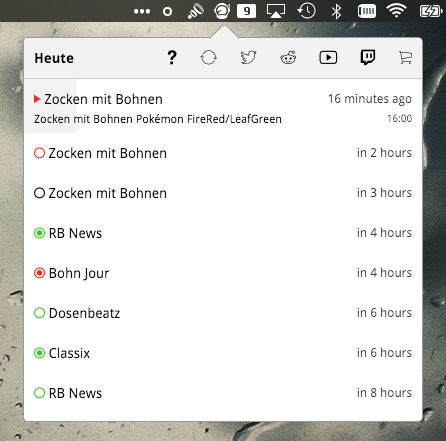
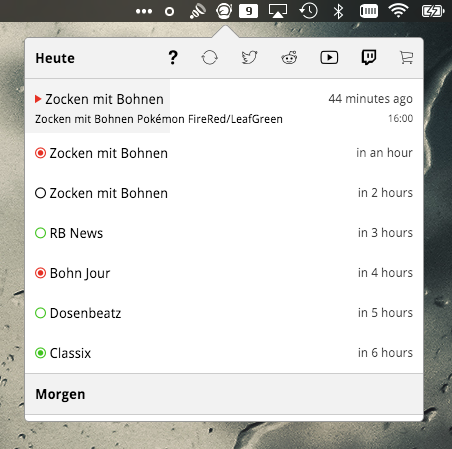
fixed dates

diff --git a/www/assets/js/index.js b/www/assets/js/index.js
@@ -6,7 +6,7 @@ var mustache = require('mustache');
 var data;
 var timer;
 var view       = 'schedule';
-var divider    = ['Heute', 'Morgen', '&Uuml;bermorgen'];
+var divider    = ['Heute', 'Morgen'];
 var main       = document.querySelector('#main');
 var listTpl    = document.querySelector('#tpl-list').innerHTML;
 var aboutTpl   = document.querySelector('#tpl-about').innerHTML;
@@ -148,16 +148,19 @@ ipc.on('schedule', function(json) {
 	var days = [];
 
 	data.schedule.forEach(function(item) {
-		var delta = moment(item.timeStart).diff(moment(), 'days');
+		var delta = moment(item.timeStart).dayOfYear() - moment().dayOfYear();
 
 		if(!(delta in days)) days[delta] = {
 			delta: delta,
-			date: (divider[delta]) ? divider[delta] : 'Irgendwann',
+			date: (divider[delta]) ? divider[delta] : moment(item.timeStart).format('DD.MM.YYYY'),
 			data: []
 		};
 
 		days[delta].data.push(item);
+		console.log(delta);
 	});
+
+	console.log(JSON.stringify(days.length));
 
 	view = 'schedule';
 	main.innerHTML = mustache.render(listTpl, days);
